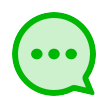
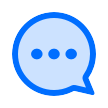
feat: 修改主题颜色 -> 蓝色

diff --git a/src/pages/login/index.vue b/src/pages/login/index.vue
@@ -43,7 +43,7 @@ export default {
     this.loading = false
   },
   mounted () {
-    this.login()
+    // this.login()
   },
   methods: {
     login () {
@@ -123,7 +123,7 @@ export default {
   .header
     height 80%
     padding 30px 40px
-    background-color $theme-green
+    background-color $theme-blue
     color white
     .header-content
       display inline-block
@@ -159,7 +159,7 @@ export default {
   margin-right auto
 .login-button
   width 80vw
-  background-color $theme-green
+  background-color $theme-blue
   color white
   font-size 16px
   margin 30px auto 30px
@@ -168,5 +168,5 @@ export default {
     height 20px
     margin 0 6px 2px 0
 .clicked
-  background-color $dark-green
+  background-color $dark-blue
 </style>

diff --git a/src/pages/signUp/index.vue b/src/pages/signUp/index.vue
@@ -131,7 +131,7 @@ export default {
   text-align center
   .header
     padding 30px 40px
-    background-color $theme-green
+    background-color $theme-blue
     color white
     .header-content
       display flex
@@ -166,7 +166,7 @@ export default {
   margin-right auto
 .login-button
   width 80vw
-  background-color $theme-green
+  background-color $theme-blue
   color white
   font-size 16px
   margin 10px auto 10px
@@ -175,5 +175,5 @@ export default {
     height 20px
     margin 0 6px 2px 0
 .clicked
-  background-color $dark-green
+  background-color $dark-blue
 </style>

diff --git a/src/pages/uploadfile/index.vue b/src/pages/uploadfile/index.vue
@@ -101,7 +101,7 @@ export default {
   text-align center
   .header
     padding 30px 40px
-    background-color $theme-green
+    background-color $theme-blue
     color white
     .header-content
       display flex
@@ -136,7 +136,7 @@ export default {
   margin-right auto
 .login-button
   width 80vw
-  background-color $theme-green
+  background-color $theme-blue
   color white
   font-size 16px
   margin 10px auto 10px
@@ -145,5 +145,5 @@ export default {
     height 20px
     margin 0 6px 2px 0
 .clicked
-  background-color $dark-green
+  background-color $dark-blue
 </style>

diff --git a/src/pages/functions/pages/groupmembers/index.vue b/src/pages/functions/pages/groupmembers/index.vue
@@ -191,7 +191,7 @@ export default {
   padding 10rpx
 button
   width 60vw
-  background-color $theme-green
+  background-color $theme-blue
   color white
   font-size 16px
   margin 20px auto
@@ -200,7 +200,7 @@ button
   // height 20px
   // margin 0 6px 2px 0
 .clicked
-  background-color $dark-green
+  background-color $dark-blue
 .content
   margin 20px 20px
 </style>

diff --git a/src/pages/introduction/index.vue b/src/pages/introduction/index.vue
@@ -58,7 +58,7 @@ export default {
   text-align center
 .login-button
   width 80vw
-  background-color $theme-green
+  background-color $theme-blue
   color white
   font-size 16px
   margin 10px auto 10px
@@ -67,5 +67,5 @@ export default {
     height 20px
     margin 0 6px 2px 0
 .clicked
-  background-color $dark-green
+  background-color $dark-blue
 </style>

diff --git a/src/pages/functions/pages/group/index.vue b/src/pages/functions/pages/group/index.vue
@@ -155,7 +155,7 @@ export default {
   padding 10rpx
 button
   width 60vw
-  background-color $theme-green
+  background-color $theme-blue
   color white
   font-size 20px
   margin 50px auto
@@ -165,5 +165,5 @@ button
   // height 20px
   // margin 0 6px 2px 0
 .clicked
-  background-color $dark-green
+  background-color $dark-blue
 </style>
